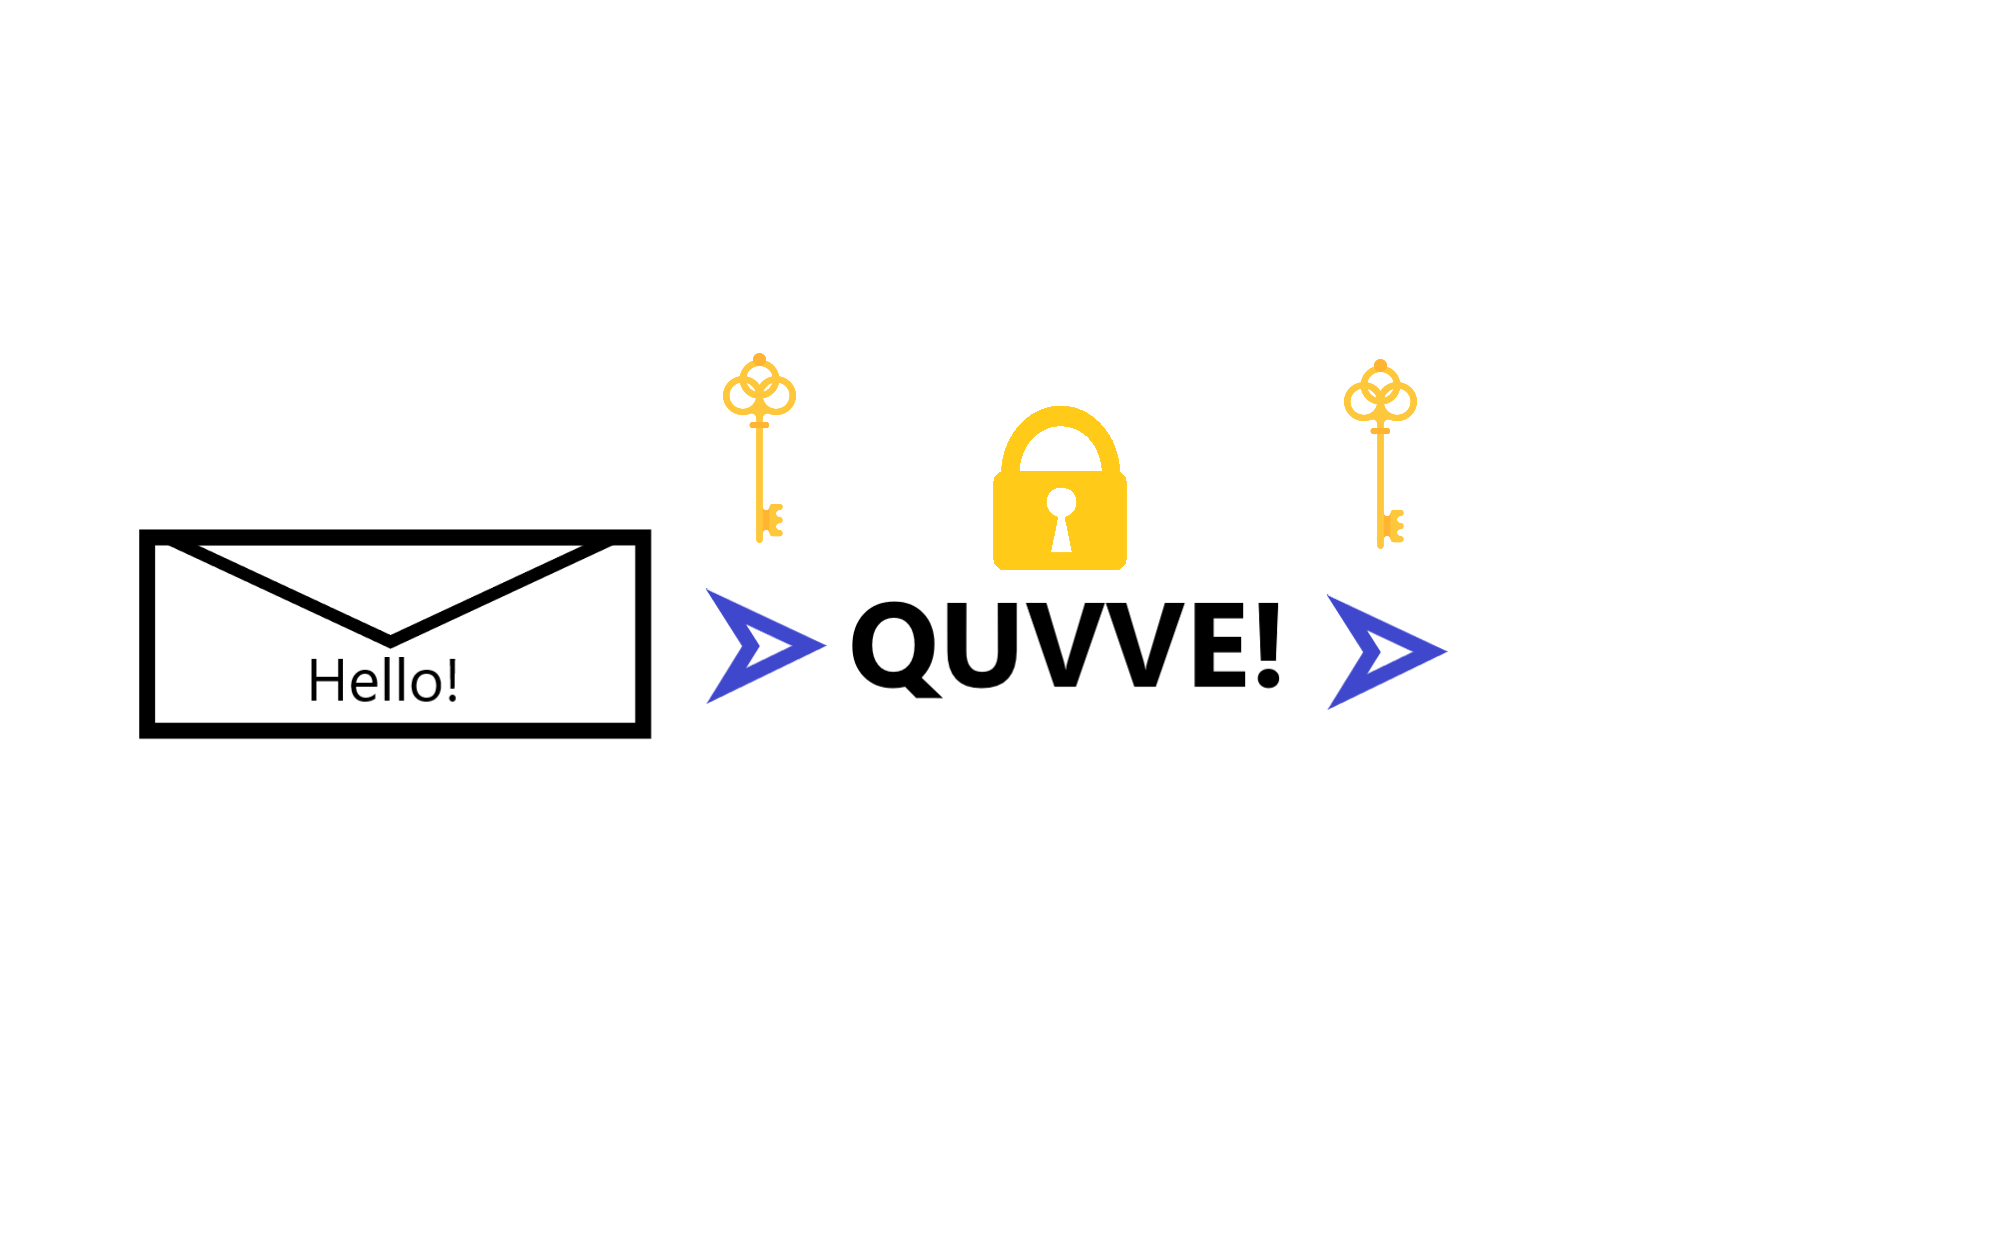
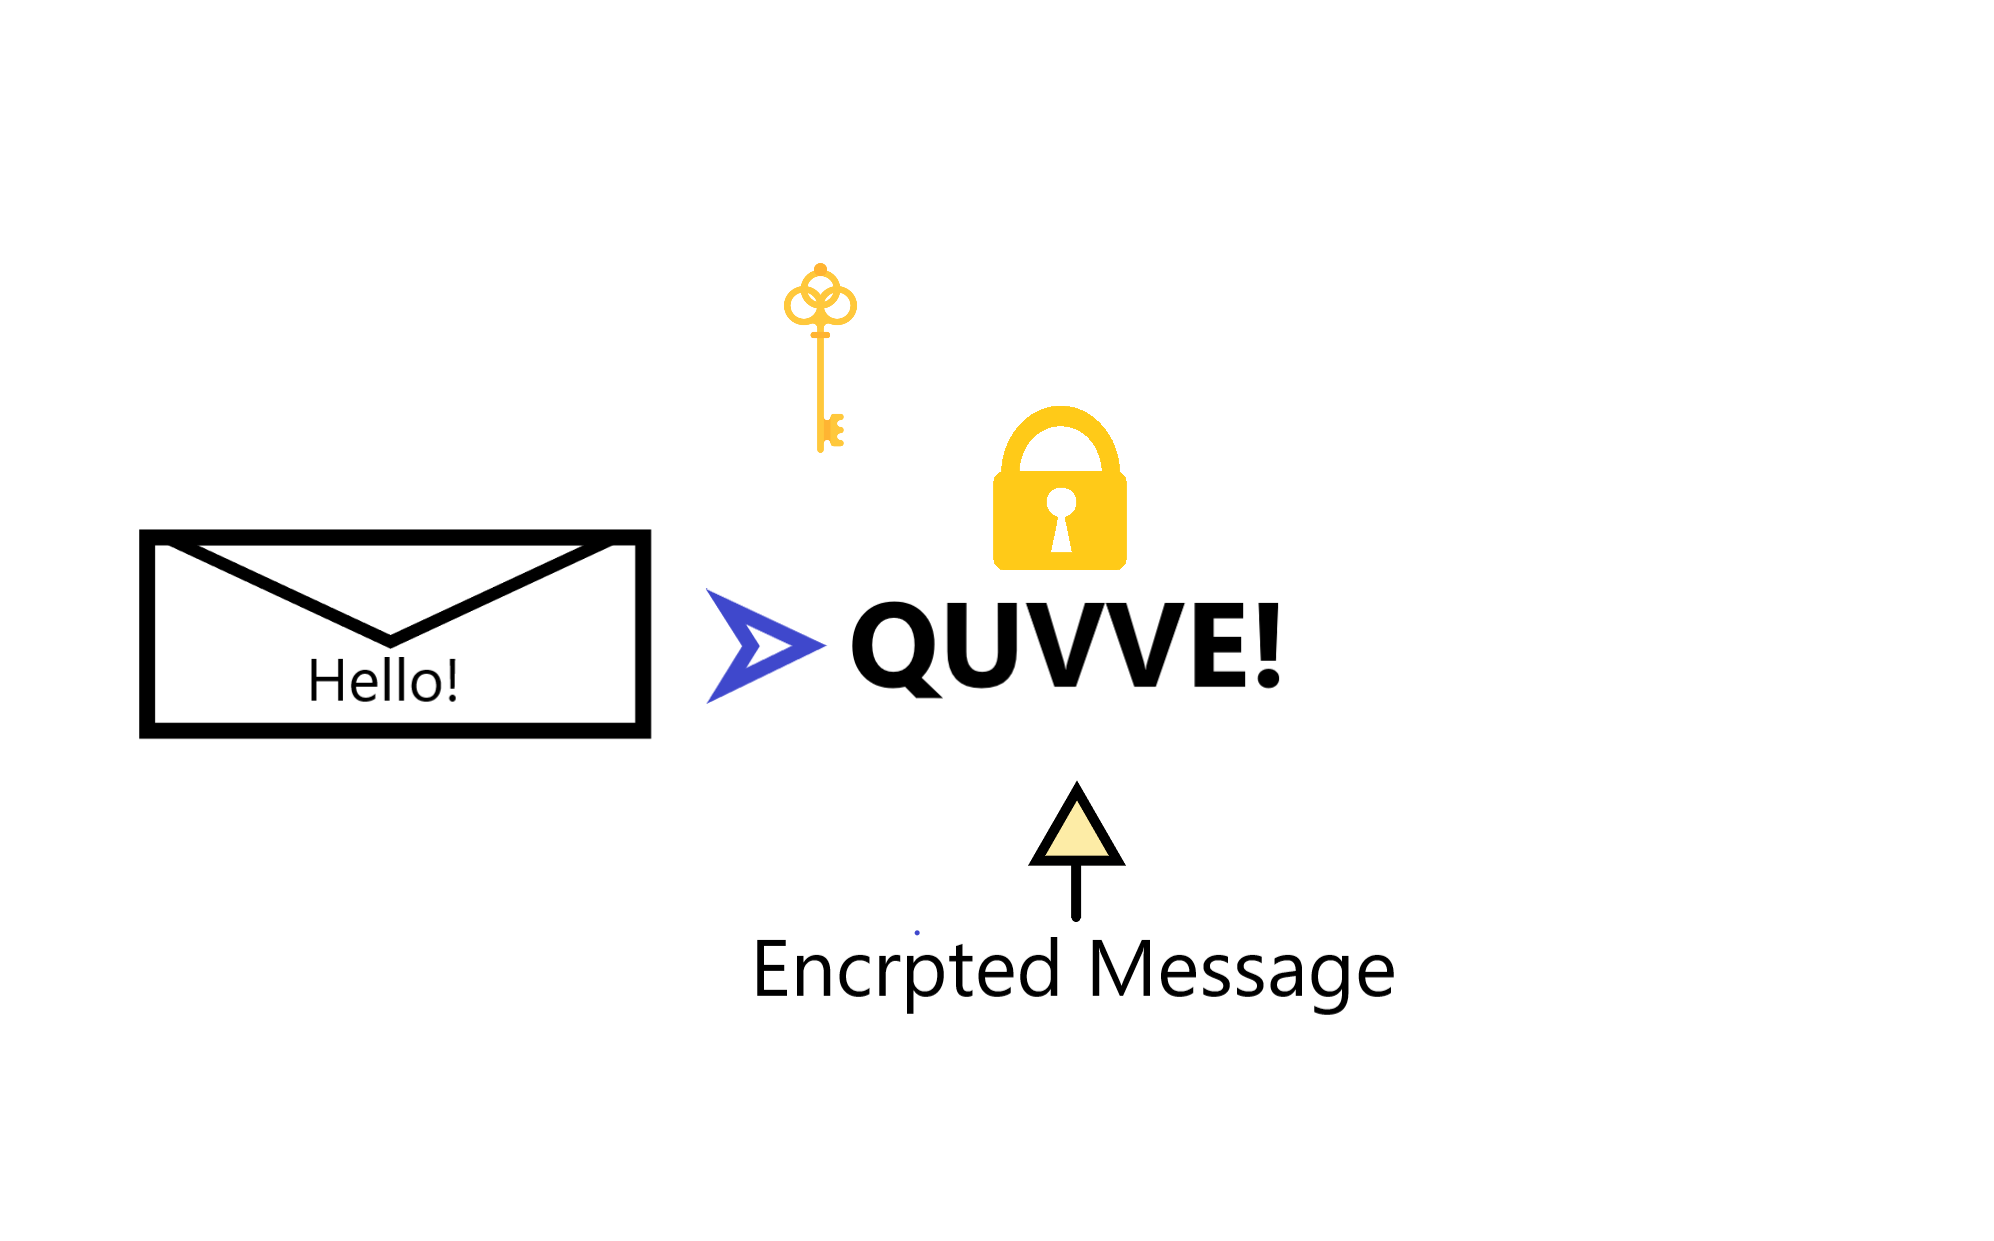
HELLO applied a mini game demo. Will explain more on FB

diff --git a/src/sample/KeyGameController.java b/src/sample/KeyGameController.java
@@ -67,6 +67,8 @@ public class KeyGameController implements Initializable {
     @FXML
     private ImageView keyImage1;
 
+    boolean isDone = true;
+
 
     @FXML
         private Button pPublicKey;
@@ -212,25 +214,28 @@ public class KeyGameController implements Initializable {
        messages.add("Ahoy Chaps! You have entered the mysterious Block!\n Let's take a look...");
        messages.add("A block in a blockchain, is simply a piece of information or message.");
        messages.add("These messages are safe and secure to send and receive.");
-       messages.add("Before blockchain, sending secret messages meant you both needed to know the same secret key.");
-       messages.add("This meant the secret key would have to be exchanged if people wanted to send secret messages, which isn't very safe.");
-       messages.add("In blockchain, each person has 1 secret key, and 1 public key.");
-       messages.add("This allows for a message to be locked using a private key, and unlocked using a public key!");
-       messages.add("That means that you don't need to tell anyone your secret key, so information cannot be leaked.");
+       messages.add("Before blockchain, sending secret messages meant using the same key to lock and unlock the message.");
+       messages.add("This meant the secret key would have to be exchanged if people wanted to send secret messages...");
+       messages.add("NOT SAFE. NOT SECURE. OH NO!");
+       messages.add("Blockchain solves this problem by using 2 keys!\n Each person has a public key and private key");
+       messages.add("The message is locked using a private key, and unlocked using a public key!");
+       messages.add("That means that you don't need to tell anyone your secret key, so information cannot be leaked!");
        messages.add("Clueso wants to send you a message.");
-       messages.add("He will lock or encrypt the message using his private key.");
-       messages.add("You must decrypt the message with your public key!");
+       messages.add("He has locked the message using his private key.");
+       messages.add("You must unlock the message with your public key!");
        messages.add("The message will be the code for you to get to the next level!");
        messages.add("Use left and right to move, and space to select the letter");
 
-       textAnimation(messages.get(0));
        BlockAnimation ba = new BlockAnimation();
-       ba.start(b, new ArrayList<>(Arrays.asList("graphics/minigameimages/animation/bridge1.png")), 0, 0);
+       ba.start(b, new ArrayList<>(Arrays.asList("graphics/minigameimages/animation/bridge1.png")), 1, 1);
+
+       textAnimation(messages.get(0));
+
 
 
        root.addEventHandler(KeyEvent.KEY_PRESSED, e ->
        {
-         if (e.getCode()==KeyCode.ENTER) {
+         if (e.getCode()==KeyCode.ENTER && isDone) {
 
 
              pressEnter.setVisible(false);
@@ -264,32 +269,116 @@ public class KeyGameController implements Initializable {
        ArrayList<String> message = new ArrayList<>(Arrays.asList("graphics/minigameimages/animation/message1.png",
                "graphics/minigameimages/animation/message2.png", "graphics/minigameimages/animation/message3.png",
                "graphics/minigameimages/animation/message4.png","graphics/minigameimages/animation/message5.png",
-               "graphics/minigameimages/animation/message6.png","graphics/minigameimages/animation/message7.png"
+               "graphics/minigameimages/animation/message8.png"
        ));
-       ArrayList<String> message2 = new ArrayList<>(Arrays.asList("graphics/minigameimages/animation/message6.png","graphics/minigameimages/animation/message7.png"
+       ArrayList<String> message2 = new ArrayList<>(Arrays.asList("graphics/minigameimages/animation/message6.png",
+               "graphics/minigameimages/animation/message7.png"
+       ));
+
+       ArrayList<String> hello = new ArrayList<>(Arrays.asList("graphics/minigameimages/animation/hello1.png",
+               "graphics/minigameimages/animation/hello2.png", "graphics/minigameimages/animation/hello3.png",
+               "graphics/minigameimages/animation/hello4.png","graphics/minigameimages/animation/hello5.png",
+               "graphics/minigameimages/animation/hello6.png","graphics/minigameimages/animation/hello7.png",
+               "graphics/minigameimages/animation/hello8.png","graphics/minigameimages/animation/hello9.png",
+               "graphics/minigameimages/animation/hello10.png","graphics/minigameimages/animation/hello11.png",
+               "graphics/minigameimages/animation/hello12.png","graphics/minigameimages/animation/hello13.png",
+               "graphics/minigameimages/animation/hello14.png","graphics/minigameimages/animation/hello15.png",
+               "graphics/minigameimages/animation/hello16.png","graphics/minigameimages/animation/hello15.png",
+               "graphics/minigameimages/animation/hello16.png","graphics/minigameimages/animation/hello15.png",
+               "graphics/minigameimages/animation/hello16.png","graphics/minigameimages/animation/hello15.png",
+               "graphics/minigameimages/animation/hello16.png","graphics/minigameimages/animation/hello15.png",
+               "graphics/minigameimages/animation/hello16.png","graphics/minigameimages/animation/hello15.png"
+
+       ));
+
+       ArrayList<String> spy = new ArrayList<>(Arrays.asList("graphics/minigameimages/animation/spy1.png",
+               "graphics/minigameimages/animation/spy2.png", "graphics/minigameimages/animation/spy3.png",
+               "graphics/minigameimages/animation/spy4.png","graphics/minigameimages/animation/spy5.png",
+               "graphics/minigameimages/animation/spy6.png","graphics/minigameimages/animation/spy7.png",
+               "graphics/minigameimages/animation/spy8.png","graphics/minigameimages/animation/spy9.png",
+               "graphics/minigameimages/animation/spy10.png","graphics/minigameimages/animation/spy11.png",
+               "graphics/minigameimages/animation/spy12.png","graphics/minigameimages/animation/spy13.png",
+               "graphics/minigameimages/animation/spy14.png","graphics/minigameimages/animation/spy15.png",
+               "graphics/minigameimages/animation/spy16.png","graphics/minigameimages/animation/spy17.png",
+               "graphics/minigameimages/animation/spy18.png","graphics/minigameimages/animation/spy19.png",
+               "graphics/minigameimages/animation/spy20.png", "graphics/minigameimages/animation/spy21.png"
+       ));
+
+       ArrayList<String> spy2 = new ArrayList<>(Arrays.asList("graphics/minigameimages/animation/spy22.png",
+               "graphics/minigameimages/animation/spy23.png"
+       ));
+       ArrayList<String> keypair = new ArrayList<>(Arrays.asList("graphics/minigameimages/animation/keypair1.png",
+               "graphics/minigameimages/animation/keypair2.png", "graphics/minigameimages/animation/keypair3.png"
+       ));
+       ArrayList<String> pairlock = new ArrayList<>(Arrays.asList("graphics/minigameimages/animation/pair1.png",
+               "graphics/minigameimages/animation/pair2.png", "graphics/minigameimages/animation/pair3.png"
+       ));
+       ArrayList<String> lock = new ArrayList<>(Arrays.asList("graphics/minigameimages/animation/keyu1.png",
+               "graphics/minigameimages/animation/keyu2.png", "graphics/minigameimages/animation/keyu3.png",
+               "graphics/minigameimages/animation/keyu4.png","graphics/minigameimages/animation/keyu5.png",
+               "graphics/minigameimages/animation/keyu6.png","graphics/minigameimages/animation/keyu7.png",
+               "graphics/minigameimages/animation/keyu8.png","graphics/minigameimages/animation/keyu9.png"
        ));
         switch (instructionString) {
 
             case 1: {
                 BlockAnimation bridgeAnimation = new BlockAnimation();
-                bridgeAnimation.start(b, bridge, 400, 400);
+                bridgeAnimation.start(b, bridge, 400, 10);
                 break;
             }
             case 2: {
                BlockAnimation messageAnimation2 = new BlockAnimation();
-                messageAnimation2.start(b, message, 400, 800);
+                messageAnimation2.start(b, message, 400, 10);
                 break;
             }
             case 3: {
                 BlockAnimation messageAnimation2 = new BlockAnimation();
-                messageAnimation2.start(b, message2, 400, 200);
+                messageAnimation2.start(b, message2, 1000, 10);
+                break;
+            }
+            case 4: {
+                BlockAnimation messageAnimation2 = new BlockAnimation();
+                messageAnimation2.start(b, hello, 400, 10);
+                break;
+            }
+            case 5: {
+                BlockAnimation messageAnimation2 = new BlockAnimation();
+                messageAnimation2.start(b, spy, 100, 1);
+                break;
+            }
+            case 6: {
+                BlockAnimation messageAnimation2 = new BlockAnimation();
+                messageAnimation2.start(b, spy2, 1000, 500);
+                break;
+            }
+            case 7: {
+                BlockAnimation messageAnimation2 = new BlockAnimation();
+                messageAnimation2.start(b, keypair, 400, 200);
+                break;
+
+            }
+            case 8: {
+                BlockAnimation messageAnimation2 = new BlockAnimation();
+                messageAnimation2.start(b, pairlock, 400, 200);
+                break;
+
+            }
+            case 9: {
+
+                break;
+            }
+            case 11: {
+                BlockAnimation messageAnimation2 = new BlockAnimation();
+                messageAnimation2.start(b, lock, 400, 200);
                 break;
 
             }
 
 
+
             default: return;
         }
+       pressEnter.setVisible(true);
    }
 
    boolean textAnimation(String s) {
@@ -299,14 +388,15 @@ public class KeyGameController implements Initializable {
 
        IntegerProperty count = new SimpleIntegerProperty(0);
        Timeline timeline = new Timeline();
+       isDone = false;
 
        KeyFrame kf = new KeyFrame(
                Duration.seconds(0.05), e -> {
            if (count.get() > s.length()) {
-
-               timeline.stop();
                animation();
-               pressEnter.setVisible(true);
+               timeline.stop();
+               isDone = true;
+
 
            } else {
                instructions.setText(s.substring(0, count.get()));

diff --git a/src/sample/BlockAnimation.java b/src/sample/BlockAnimation.java
@@ -24,18 +24,11 @@ public class BlockAnimation  {
         Timeline tl = new Timeline();
         tl.setCycleCount(1);
 
-        final ImageView bridge0 = new ImageView(stillFrames.get(0));
-        bridge0.setFitWidth(400);
-        bridge0.setPreserveRatio(true);
-        bridge0.setSmooth(true);
-        tl.getKeyFrames().add(new KeyFrame(Duration.millis(100),  e -> {
-            bridge.getChildren().setAll(bridge0);
-        }
-        ));
+
 
         for (String s : stillFrames) {
             final ImageView bridge1 = new ImageView(s);
-            bridge1.setFitWidth(400);
+            bridge1.setFitWidth(500);
             bridge1.setPreserveRatio(true);
             bridge1.setSmooth(true);
             tl.getKeyFrames().add(new KeyFrame(Duration.millis(start),  e -> {

diff --git a/src/sample/BlockAnimation2.java b/src/sample/BlockAnimation2.java
@@ -45,6 +45,7 @@ public class BlockAnimation2  {
 
 
 
+
         Timeline tl = new Timeline();
         tl.setCycleCount(1);
 
